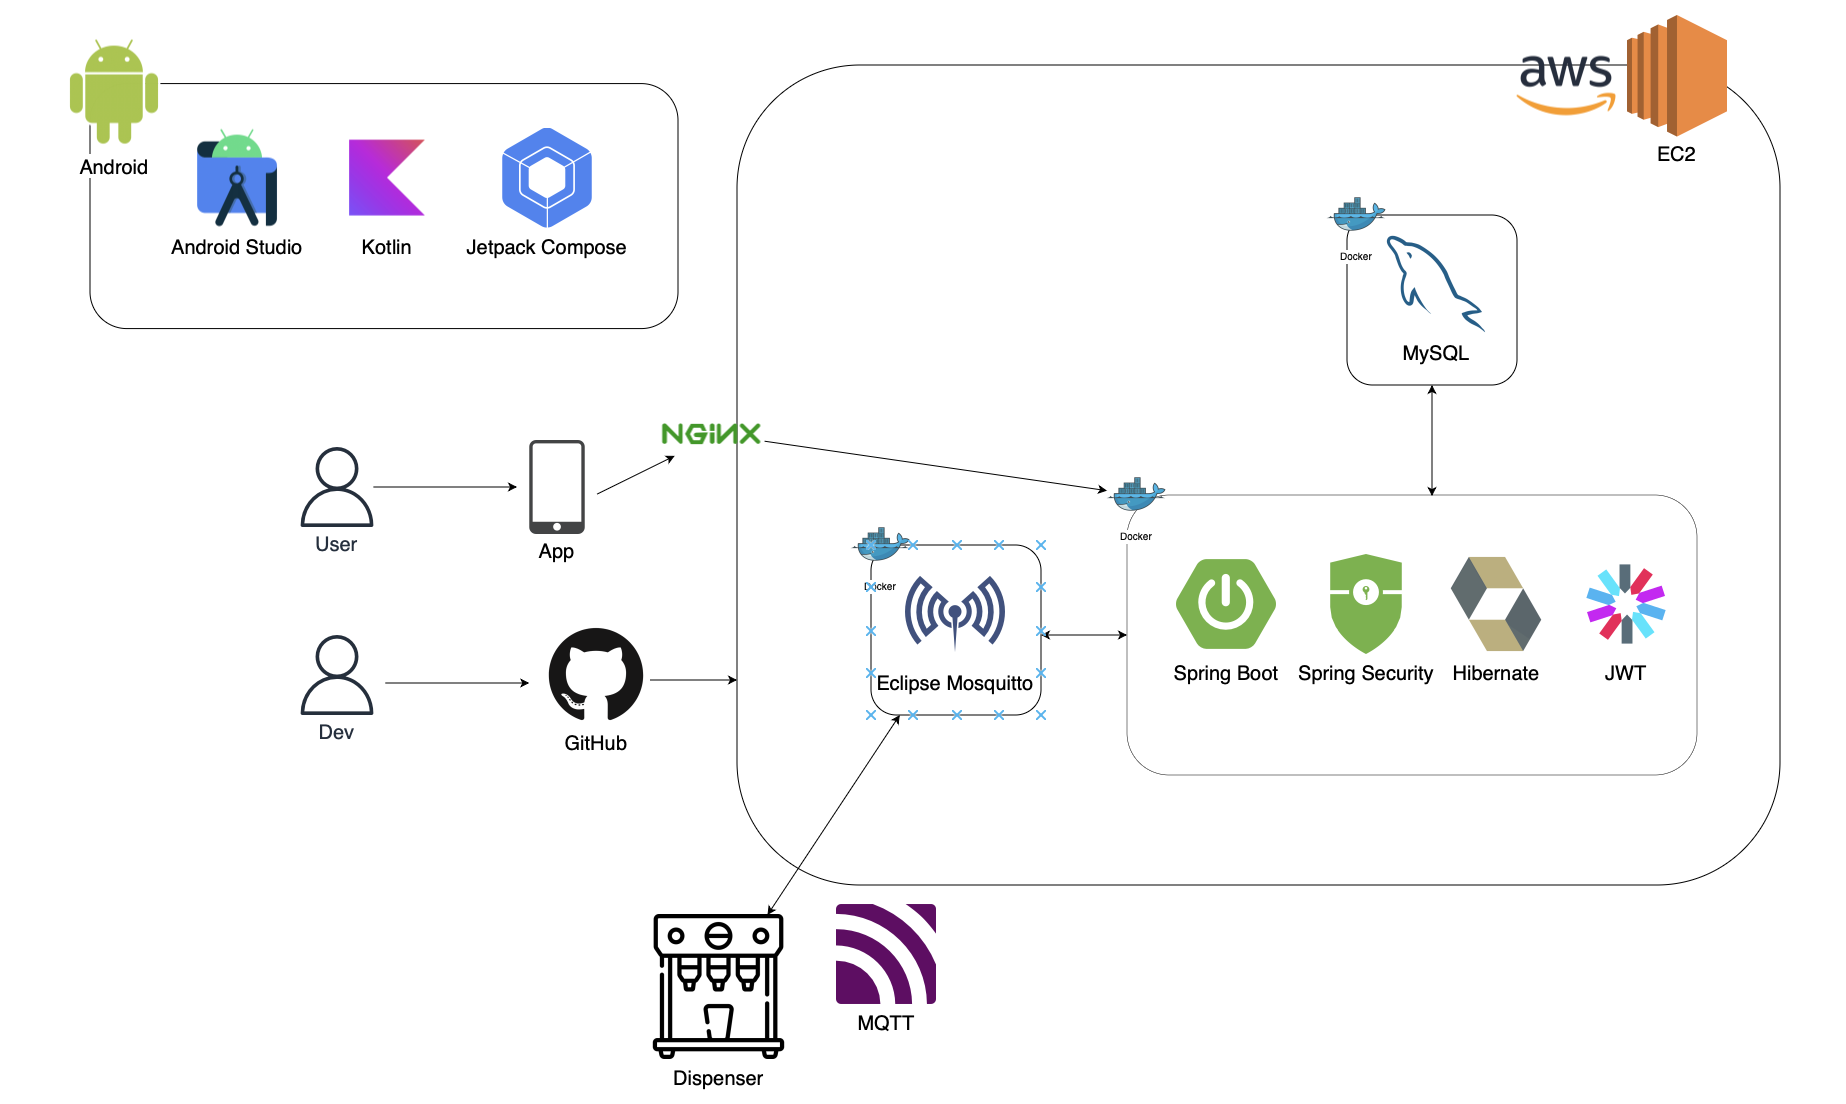
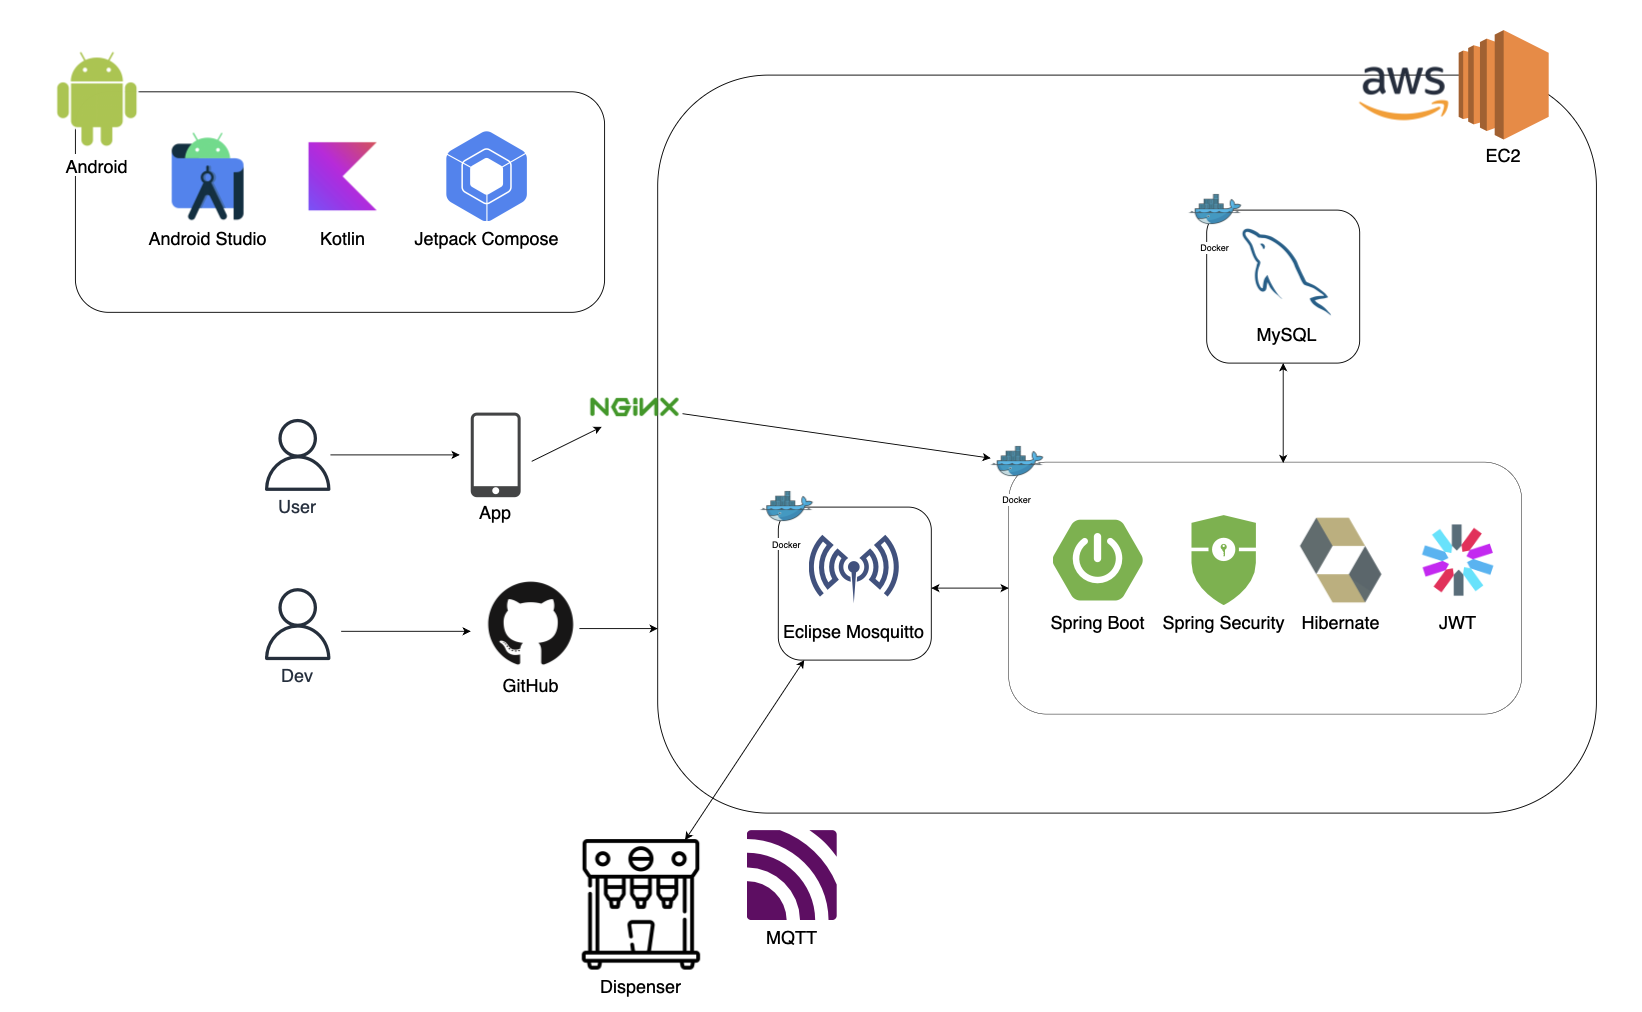
docs: README 에 사진 추가 및 필요없는 문단 삭제

diff --git a/README.md b/README.md
@@ -2,7 +2,7 @@
 
 > 개인 맞춤형 건강 관리 디스펜서 시스템의 백엔드 API 서버
 
-## 📋 목차
+## 목차
 
 - [프로젝트 개요](#프로젝트-개요)
 - [기술 스택](#기술-스택)
@@ -36,17 +36,16 @@
 - **Java 21**
 - **Spring Boot 3.5.5**
 - **Spring Security** - 인증/인가
-- **Spring Data JPA** - 데이터 영속성
+- **Spring Data JPA** 
 
 ### 라이브러리
-- **JWT (jjwt 0.12.6)** - 토큰 기반 인증
+- **JWT (jjwt 0.12.6)**
 - **Eclipse Paho MQTT Client 1.2.5** - MQTT 통신
-- **QueryDSL 5.1.0** - 타입 안전 쿼리
-- **Lombok** - 보일러플레이트 코드 제거
-- **SpringDoc OpenAPI 2.8.9** - API 문서화
+- **QueryDSL 5.1.0**
+- **Lombok**
 
 ### 데이터베이스
-- **MySQL 8.0** - 메인 데이터베이스
+- **MySQL 8.0**
 
 ### 인프라
 - **Docker & Docker Compose** - 컨테이너 오케스트레이션
@@ -59,45 +58,7 @@
 
 ### 전체 시스템 구조
 
-<div style="position: relative;">
-  <img src="docs/images/architecture.png" alt="Architecture Diagram" onerror="this.style.display='none'; this.nextElementSibling.style.display='block';" style="max-width: 100%; height: auto;">
-  <pre style="display: none;"><code>┌──────────────┐
-│  Mobile App  │
-└──────┬───────┘
-       │ HTTPS
-       ▼
-┌──────────────┐
-│    Nginx     │ (Reverse Proxy)
-└──────┬───────┘
-       │
-       ▼
-┌──────────────────────────┐
-│  Spring Boot Backend     │
-│  ┌────────────────────┐  │
-│  │ REST Controllers   │  │
-│  └─────────┬──────────┘  │
-│            │              │
-│  ┌─────────▼──────────┐  │
-│  │  Service Layer    │  │
-│  └─────────┬──────────┘  │
-│            │              │
-│  ┌─────────▼──────────┐  │
-│  │ Repository Layer   │  │
-│  └─────────┬──────────┘  │
-└────────────┼──────────────┘
-             │
-    ┌────────┴────────┐
-    │                 │
-    ▼                 ▼
-┌──────────┐    ┌───────────────┐
-│  MySQL   │    │  MQTT Broker  │
-└──────────┘    └───────┬───────┘
-                        │
-                        ▼
-                ┌───────────────┐
-                │   Dispenser   │ (IoT Device)
-                └───────────────┘</code></pre>
-</div>
+![Architecture Diagram](docs/images/architecture.png)
 
 ### 백엔드 내부 레이어 구조
 
@@ -157,14 +118,14 @@ Domain Layer (엔티티)
 
 ### 핵심 기능
 
-- ✅ **JWT 기반 인증**: Access Token을 통한 인증/인가
-- ✅ **MQTT 실시간 통신**: 디스펜서와의 양방향 통신
-  - 디스펜서 등록 (QR → MQTT)
+- **JWT 기반 인증**: Access Token을 통한 인증/인가
+- **MQTT 실시간 통신**: 디스펜서와의 양방향 통신
+  - 디스펜서 등록 (QR)
   - 배출 명령 전송
   - 명령 응답 수신
-- ✅ **규칙 기반 추천 엔진**: 프로필 + 피드백 기반 영양소 계산
-- ✅ **프로필 스냅샷**: 섭취 시점의 프로필 정보 저장
-- ✅ **QueryDSL**: 복잡한 쿼리 타입 안전성 보장
+- **규칙 기반 추천 엔진**: 프로필 + 피드백 기반 영양소 계산
+- **프로필 스냅샷**: 섭취 시점의 프로필 정보 저장
+- **QueryDSL**: 복잡한 쿼리 타입 안전성 보장
 
 ---
 
@@ -415,92 +376,7 @@ Authorization: Bearer {token}
 
 ### 데이터베이스 다이어그램
 
-<div style="position: relative;">
-  <img src="docs/images/erd.png" alt="ERD Diagram" onerror="this.style.display='none'; this.nextElementSibling.style.display='block';" style="max-width: 100%; height: auto;">
-  <pre style="display: none;"><code>┌──────────────┐
-│   accounts   │
-├──────────────┤
-│ account_id   │ PK
-│ email        │
-│ password     │
-└──────┬───────┘
-       │ 1
-       │
-       │ N
-┌──────▼───────┐
-│   profiles   │
-├──────────────┤
-│ profile_id   │ PK
-│ account_id   │ FK → accounts
-│ name         │
-│ age          │
-│ height       │
-│ weight       │
-│ gender       │
-└──────┬───────┘
-       │ 1
-       │
-       │ N
-┌──────▼─────────────┐      ┌──────────────┐
-│   profile_tags     │      │     tags     │
-├────────────────────┤      ├──────────────┤
-│ profile_id         │ FK   │ tag_id       │ PK
-│ tag_id             │ FK   │ code         │
-│                    │      │ label        │
-└────────────────────┘      └──────────────┘
-       │                            │
-       └────────────────────────────┘
-
-┌─────────────────────┐     ┌──────────────┐
-│ profile_conditions  │      │  conditions  │
-├─────────────────────┤      ├──────────────┤
-│ profile_id         │ FK  │ condition_id │ PK
-│ condition_id       │ FK  │ code         │
-│                    │      │ label        │
-└─────────────────────┘      └──────────────┘
-       │                            │
-       └────────────────────────────┘
-
-┌──────────────┐
-│  dispensers   │
-├──────────────┤
-│ dispenser_id │ PK
-│ account_id   │ FK → accounts
-│ uuid         │
-│ status       │
-└──────┬───────┘
-       │ 1
-       │
-       │ N
-┌──────▼───────┐
-│   intakes    │
-├──────────────┤
-│ intake_id    │ PK
-│ profile_id   │ FK → profiles
-│ dispenser_id │ FK → dispensers
-│ command_uuid │
-│ zinc         │
-│ melatonin    │
-│ magnesium    │
-│ electrolyte  │
-│ status       │
-│ profile_snapshot │ (JSON)
-│ requested_at │
-│ completed_at │
-└──────┬───────┘
-       │ 1
-       │
-       │ N
-┌──────▼──────────┐
-│   feedbacks     │
-├─────────────────┤
-│ feedback_id     │ PK
-│ profile_id      │ FK → profiles
-│ sleep_rating    │
-│ fatigue_rating  │
-│ created_at      │
-└─────────────────┘</code></pre>
-</div>
+![ERD Diagram](docs/images/erd.png)
 
 ### 주요 엔티티 설명
 
@@ -537,7 +413,7 @@ Authorization: Bearer {token}
 ## 실행 방법
 
 <details>
-<summary>🚀 실행 방법 상세 가이드 (클릭하여 펼치기)</summary>
+<summary>실행 방법 상세 가이드 (클릭하여 펼치기)</summary>
 
 ### 로컬 실행 (Spring Boot)
 
@@ -564,10 +440,6 @@ JWT_SECRET_KEY=your-secret-key-min-256-bits
 
 # MQTT
 MQTT_PORT=1883
-
-# Redis (선택)
-REDIS_HOST=localhost
-REDIS_PORT=6379
 ```
 
 #### 3. 애플리케이션 실행
@@ -581,7 +453,7 @@ REDIS_PORT=6379
 java -jar build/libs/dispenser-0.0.1-SNAPSHOT.jar
 ```
 
-애플리케이션은 `http://localhost:8080`에서 실행됩니다.
+애플리케이션은 `http://localhost`에서 실행됩니다.
 
 ### Docker Compose 실행
 
@@ -602,10 +474,6 @@ MQTT_PORT=1883
 
 # JWT
 JWT_SECRET_KEY=your-secret-key-min-256-bits-for-production-use
-
-# Redis (선택)
-REDIS_HOST=localhost
-REDIS_PORT=6379
 ```
 
 #### 2. Docker Compose 실행
@@ -635,7 +503,7 @@ docker-compose down -v
 애플리케이션 실행 후 다음 URL에서 API 문서 확인:
 
 ```
-http://localhost:8080/swagger-ui.html
+http://localhost/swagger-ui.html
 ```
 
 </details>
@@ -699,16 +567,4 @@ dispenser/
 ├── settings.gradle
 └── README.md
 ```
-
----
-
-## 라이선스
-
-이 프로젝트는 수원대학교 프로젝트입니다.
-
----
-
-## 기여
-
-이슈 및 개선 사항은 GitHub Issues를 통해 제안해주세요.
 
